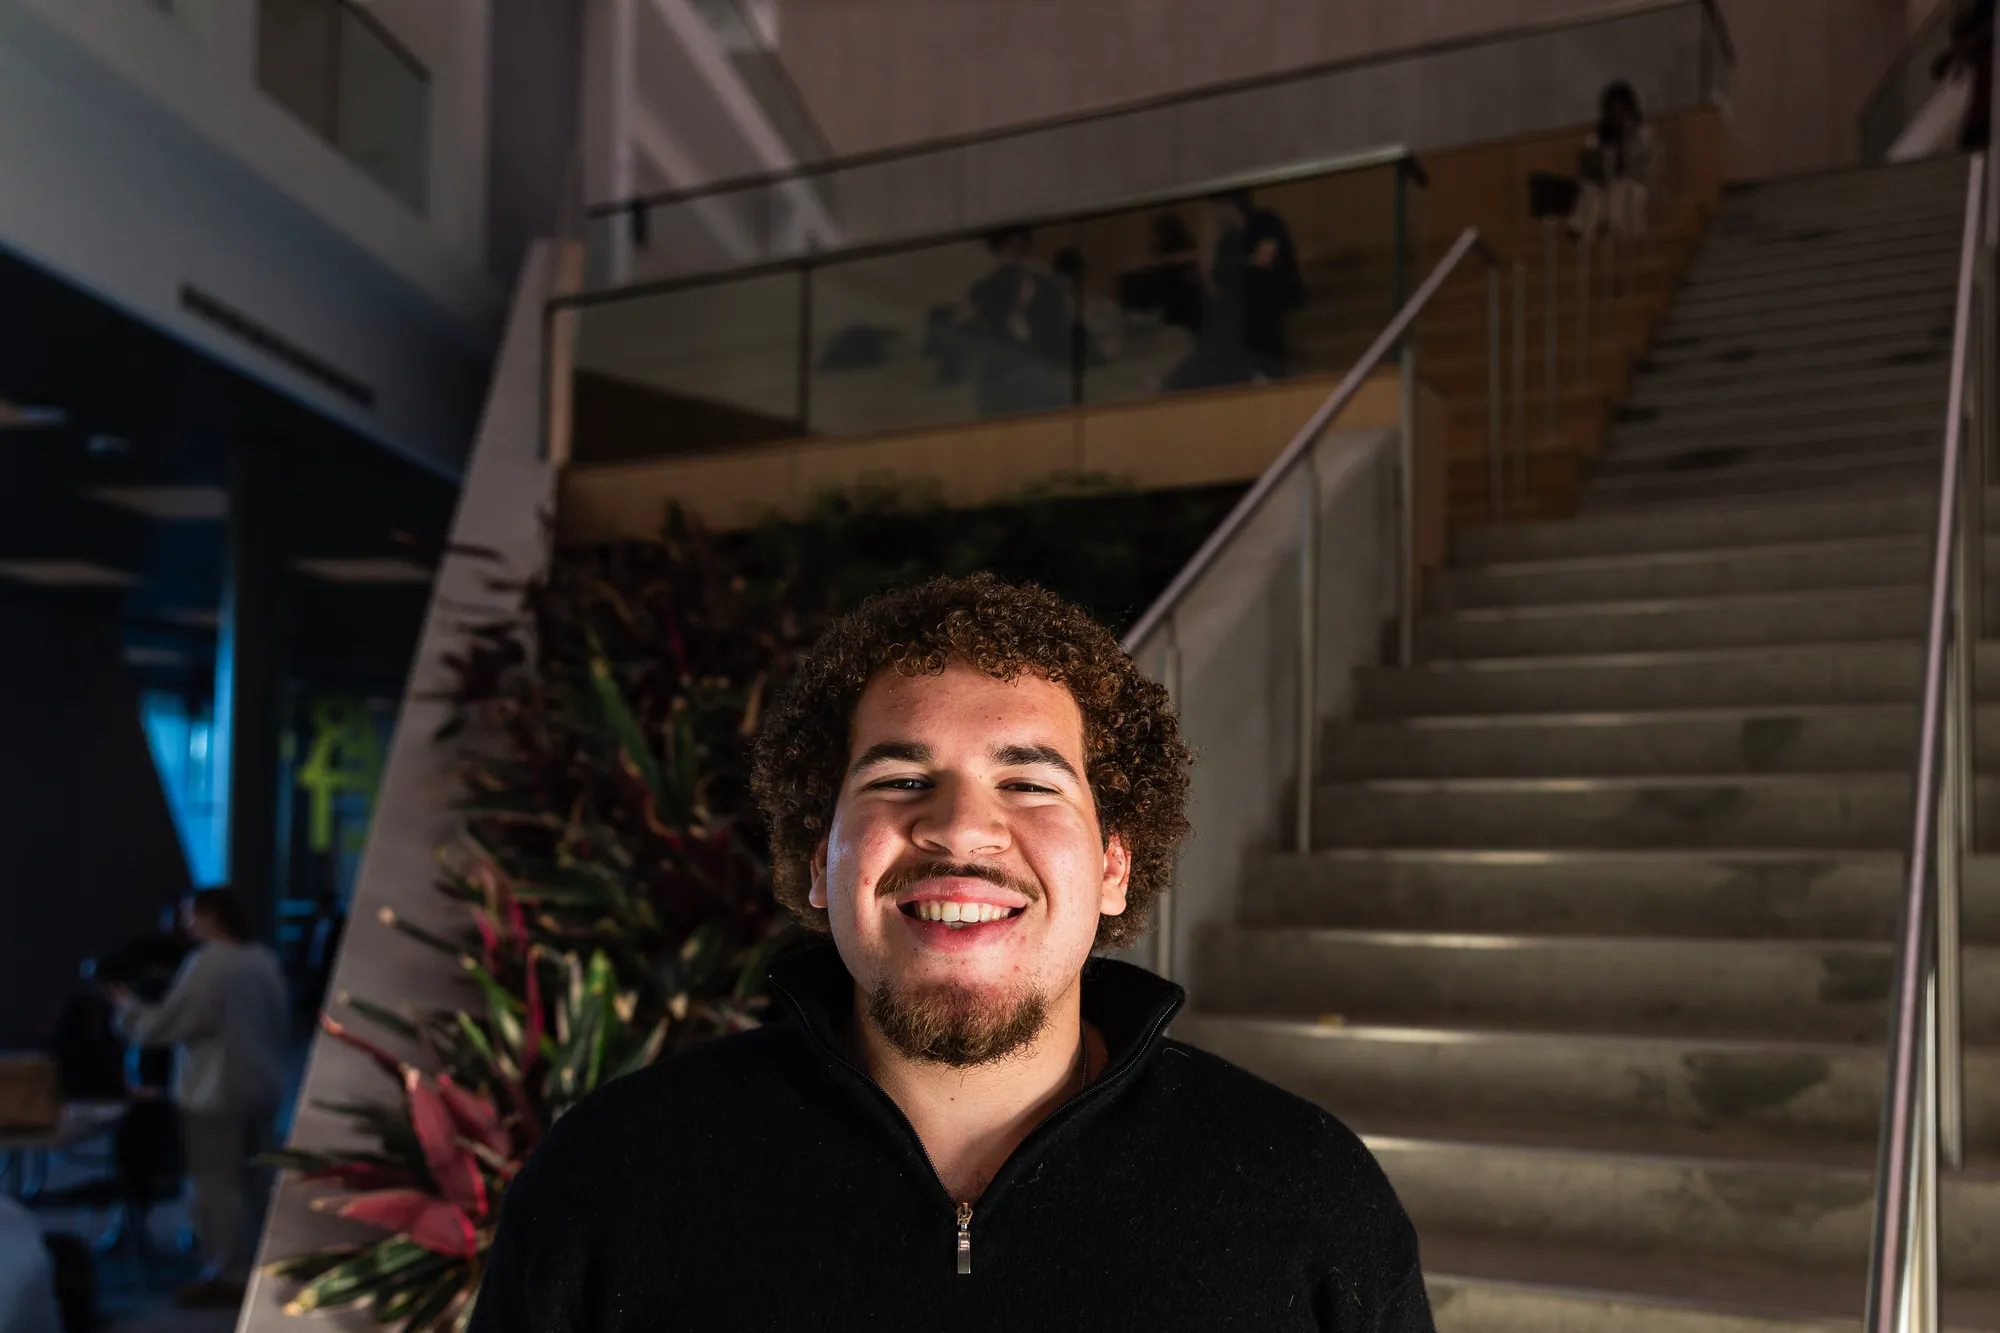
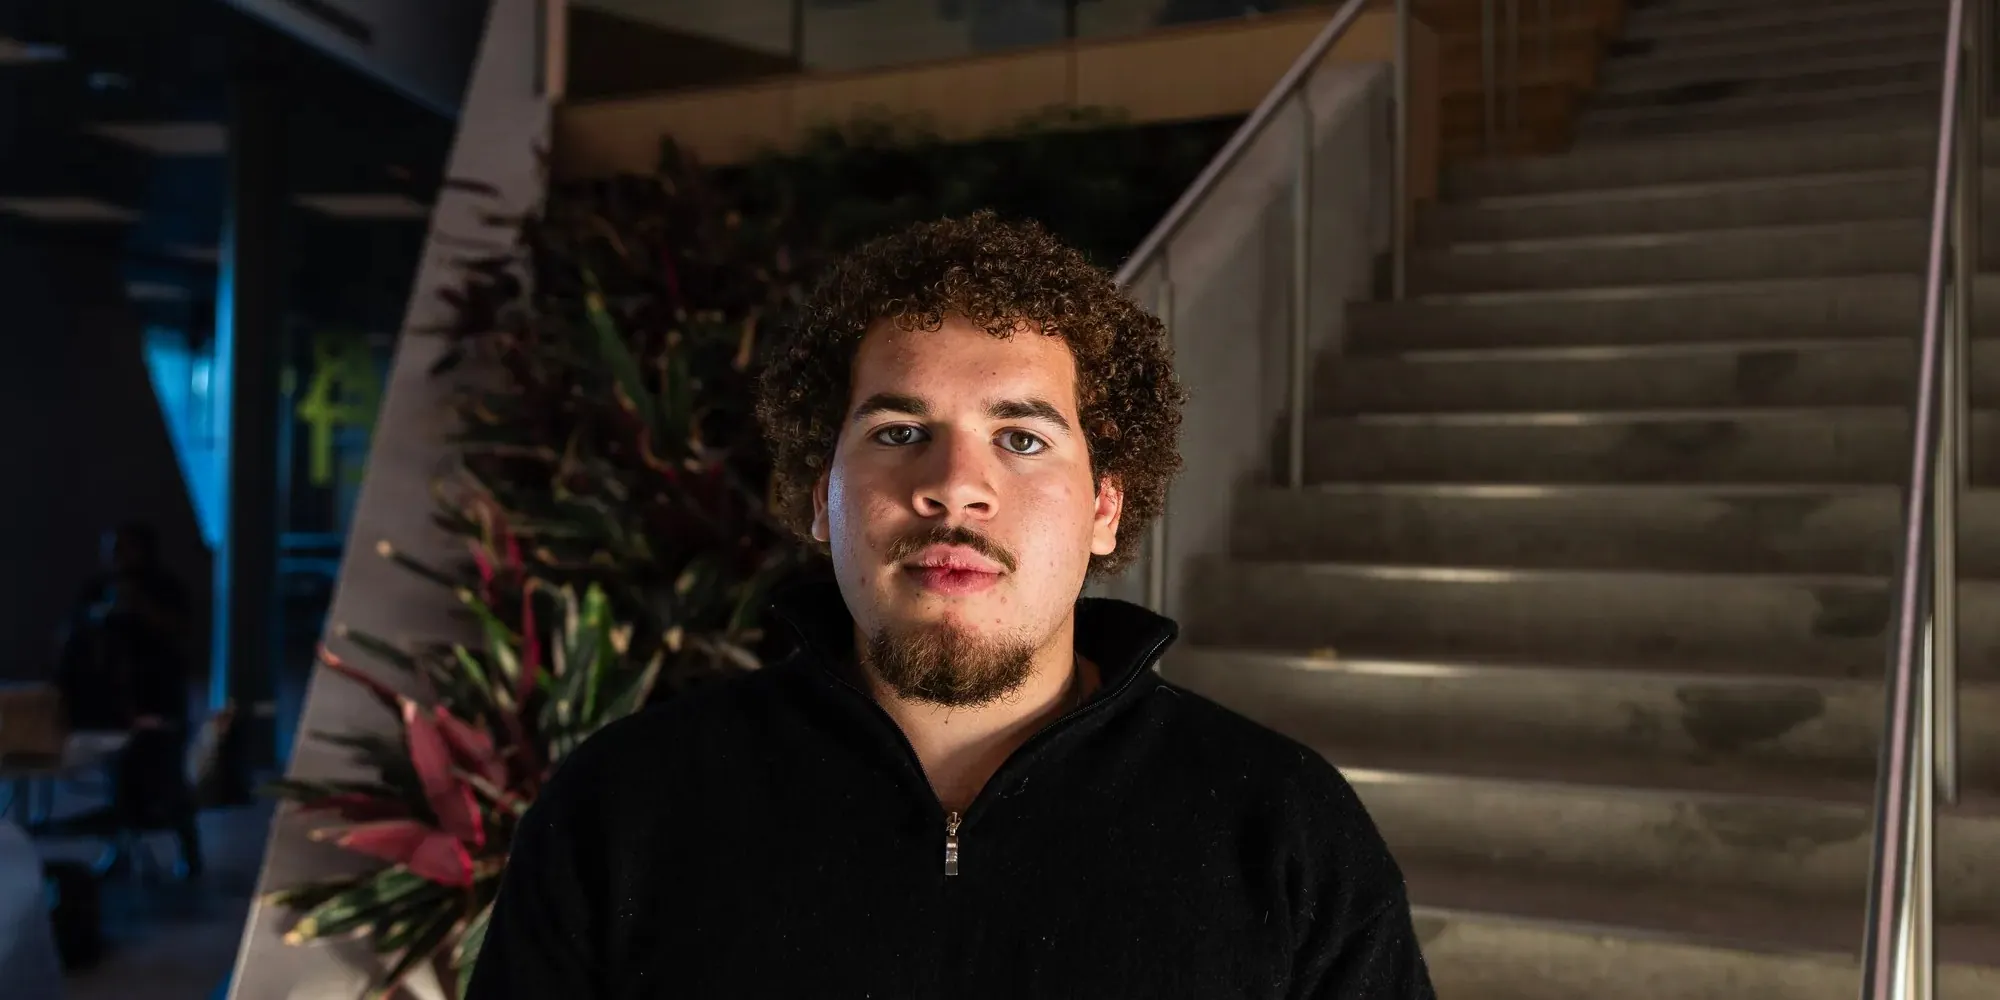
Updated execs on About page, and made ExecutiveCard and ArticleEventCard component borders a visible grey when in light mode

diff --git a/src/app/about/page.tsx b/src/app/about/page.tsx
@@ -32,18 +32,19 @@ export default function About() {
         ></ExecutiveCard>
 
         <ExecutiveCard
-          name='Elena Parennas'
-          position='Events VP Director'
-          image='/execs/individual/elena_head.webp'
-          bio='3rd year Business Management student. Favourite sport: Soccer. Favourite team: FC Barcelona'
-          linkedin='https://www.linkedin.com/in/elena-parrenas'
-        ></ExecutiveCard>
-
-        <ExecutiveCard
           name='Catalina Bedoya Fuller'
           position='VP of Operations'
           image='/execs/individual/catalina_head.webp'
           bio='4th year Media Studies student. Favourite sport: Soccer. Favourite team: FC Barcelona'
+          linkedin='https://www.linkedin.com/in/catalina-bedoya-a599b8329/'
+        ></ExecutiveCard>
+
+        <ExecutiveCard
+          name='Nathan Oribhabor'
+          position='Co-VP of Marketing'
+          image='/execs/individual/nathan_head2.webp'
+          bio='3rd year Arts Management and Media Studies student. Favourite sport: Hockey. Favourite team: Toronto Maple Leafs'
+          linkedin='https://www.linkedin.com/in/nathan-oribhabor-81755a323/'
         ></ExecutiveCard>
 
         <ExecutiveCard
@@ -55,11 +56,35 @@ export default function About() {
         ></ExecutiveCard>
 
         <ExecutiveCard
+          name='Ahso Yun'
+          position='VP of Outreach'
+          image='/execs/individual/ahso_head.webp'
+          bio='2nd year BBA Co-op student specializing in Entrepreneurship. Favourite sport: Soccer. Favourite team: Manchester United'
+          linkedin='https://www.linkedin.com/in/ahso-yun-2oo6o529'
+        ></ExecutiveCard>
+        
+        <ExecutiveCard
+          name='Elena Parennas'
+          position='Events VP Director'
+          image='/execs/individual/elena_head.webp'
+          bio='3rd year Business Management student. Favourite sport: Soccer. Favourite team: FC Barcelona'
+          linkedin='https://www.linkedin.com/in/elena-parrenas'
+        ></ExecutiveCard>
+
+        <ExecutiveCard
           name='Kyrie Ou'
           position='Events Director'
           image='/execs/individual/kyrie_head.webp'
           bio='2nd year Statistics student. Favourite sport: Basketball'
           linkedin='https://www.linkedin.com/in/kyrieouoft/'
+        ></ExecutiveCard>
+
+        <ExecutiveCard
+          name='Arden Rego'
+          position='N/A'
+          image='/execs/individual/arden_head.webp'
+          bio='4th year Mental Health and Neuroscience student. Favourite sports: Soccer and Hockey. Favourite teams: Liverpool FC and the Ottawa Senators'
+          linkedin='https://www.linkedin.com/in/arden-rego/'
         ></ExecutiveCard>
 
         <ExecutiveCard
@@ -89,8 +114,24 @@ export default function About() {
           name='Mohamed Brahimi'
           position='Education/Web Coordinator'
           image='/execs/individual/mohamed_head.webp'
-          bio='2nd year Statistics and Computer Science student. Favourite sport: Soccer. Favourite team: Toronto FC'
+          bio='2nd year Computer Science and Statistics student. Favourite sport: Soccer. Favourite team: Toronto FC'
           linkedin='https://www.linkedin.com/in/mohbrahimi/'
+        ></ExecutiveCard>
+
+        <ExecutiveCard
+          name='Noah Payne'
+          position='Research Coordinator'
+          image='/execs/individual/noah_head.webp'
+          bio='2nd year Business Administration student.'
+          linkedin='https://www.linkedin.com/in/noahpayne07/'
+        ></ExecutiveCard>
+
+        <ExecutiveCard
+          name='Aiden Loh'
+          position='Education Coordinator'
+          image='/execs/default.webp'
+          bio='3nd year Management student specializing in Accounting. Favourite sports: Basketball and football. Favourite team: Toronto Raptors'
+          linkedin='https://www.linkedin.com/in/aiden-loh/'
         ></ExecutiveCard>
 
       </div>

diff --git a/src/components/ExecutiveCard.tsx b/src/components/ExecutiveCard.tsx
@@ -13,7 +13,7 @@ interface ExecutiveCardProps {
 
 export default function ExecutiveCard({ name, position, image, bio, linkedin,}: ExecutiveCardProps) {
   return (
-    <div className="w-full overflow-hidden shadow-lg bg-white border border-gray-100 transition-transform duration-300 hover:-translate-y-1">
+    <div className="w-full overflow-hidden shadow-lg bg-white border border-gray-300 dark:border-transparent transition-transform duration-300 hover:-translate-y-1">
       {/* Executive Photo */}
       <div className="relative w-full h-56 sm:h-64 bg-gray-200">
         <Image 

diff --git a/src/components/ArticleEventCard.tsx b/src/components/ArticleEventCard.tsx
@@ -14,7 +14,7 @@ export default function ArticleEventCard({ title, image, link, description, auth
   return (
     <Link 
       href={link}
-      className="group block w-full overflow-hidden shadow-lg bg-white border border-gray-100 transition-transform duration-300 hover:-translate-y-1"
+      className="group block w-full overflow-hidden shadow-lg bg-white border border-gray-300 dark:border-transparent transition-transform duration-300 hover:-translate-y-1"
     >
       {/* Image Container */}
       <div className="relative w-full h-48 sm:h-56 bg-gray-200 overflow-hidden">
